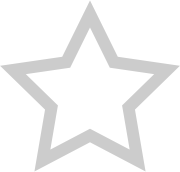
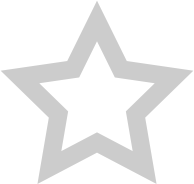
Updated thickness of empty stars borders

diff --git a/css/site.css b/css/site.css
@@ -102,8 +102,8 @@ small { font-size: 70%; }
   background-repeat: no-repeat;
   background-size: contain;
   position: relative;
-  left: -9px;
-  padding: 12px;
+  left: -12px;
+  padding: 9px;
 }
 .star.empty { background-image: url("../images/active_empty_star.png"); }
 .past-event .star { background-image: url("../images/disabled_favorite_star.png"); }
